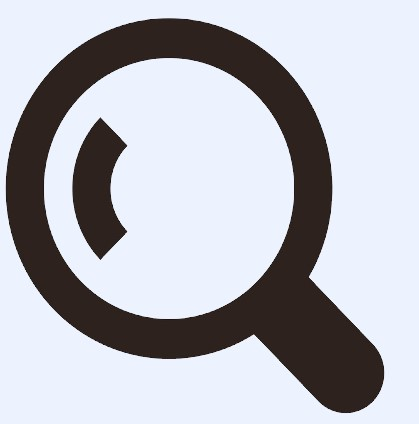
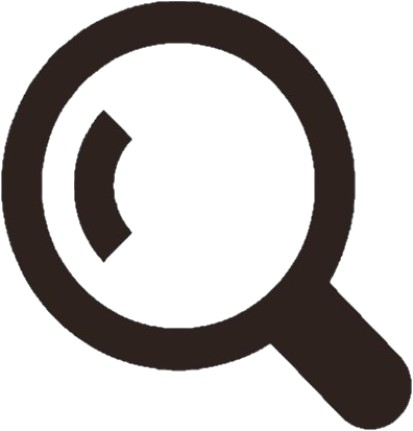
Top Left Page Created Like Facebook but To be Edited

diff --git a/Facebook.htm b/Facebook.htm
@@ -1,5 +1,6 @@
 <!DOCTYPE html>
 <html lang="en">
+
 <head>
     <meta charset="UTF-8">
     <meta http-equiv="X-UA-Compatible" content="IE=edge">
@@ -8,23 +9,38 @@
     <link rel="stylesheet" href="Facebook.css">
     <script src="Facebook.js"></script>
 </head>
+
 <body>
     <div id="Page">
         <div id="TopPage" class="PageDivision">
             <section class="LeftTopPage">
-                <div class="FacebookLogo"></div>
-                <div class="SearchFirstPart"></div> <!-- Search Logo -->
-                <div class="SearchLastPart"></div> <!-- Search text -->
+                <section class="AlignLeftTopPage">
+                    <section class="FacebookLogo">
+                        <img src="Facebook-logo.png" alt="" class="FacebookLogoPicture">
+                    </section>
+                    <section class="SearchBox">
+                        <section class="SearchFirstPart">
+                            <img src="Search-icon.png" alt="" id="SearchIcon" class="SearchBoxItem">
+                        </section> <!-- Search Logo -->
+                        <section class="SearchLastPart">
+                            <input type = "text" id="SearchInputText" placeholder="Search Friends" class="SearchBoxItem">
+                        </section> <!-- Search text -->
+                    </section>
+                </section>
             </section>
-            <section class="MidTopPage"></section>
-            <section class="RightTopPage"></section>
+            <section class="MidTopPage">
+                <section class="AlignMidTopPage"></section>
+            </section>
+            <section class="RightTopPage">
+                <section class="AlignRightTopPage"></section>
+            </section>
         </div>
         <div id="LeftPage" class="PageDivision">
             <div class="FixedPageStart">
                 <section class="MainList"></section>
                 <section class="LineBelowMainList">
                     <section class="LineBelowMainListAlign">
-                        <hr class = "HorizontalLineLeftPage">
+                        <hr class="HorizontalLineLeftPage">
                     </section>
                 </section>
                 <section class="ShortcutList"></section>
@@ -32,12 +48,12 @@
             </div>
         </div>
         <div id="MainPage" class="PageDivision">
-            <div class="ContentPageStart"></div>
-        </div>  
+            <div class="ContentPageStart">News Feed</div>
+        </div>
         <div id="RightPage" class="PageDivision">
             <div class="FixedPageStart">
                 <section class="RightPageTopic">
-                    <div class="contacts"></div>
+                    <div class="contacts">Contacts</div>
                     <div class="ReelsIcon"></div>
                     <div class="SearchIcon"></div>
                     <div class="ThreeDots"></div>
@@ -47,4 +63,5 @@
         </div>
     </div>
 </body>
+
 </html>

diff --git a/Facebook.css b/Facebook.css
@@ -54,6 +54,75 @@ body {
   /*height is set 0 because height of main page depends upon content of it*/
 }
 
+/*Aligning Elements*/
+.AlignLeftTopPage {
+  height: 98%;
+  width: 93%;
+  margin-left: 2%;
+  margin-top: 0.3%;
+  display: flex;
+  align-items: center;
+  justify-content: flex-start;
+}
+.AlignMidTopPage {
+  /*No margin*/
+  display: flex;
+  justify-content: center;
+}
+.AlignRightTopPage {
+  display: flex;
+  justify-content: flex-end;
+  align-items: center;
+}
+
+/*Top Page Configuration*/
+.FacebookLogo {
+  width: 15%;
+  height: 95%;
+  padding: 5% 0% 0% 5%;
+}
+.FacebookLogoPicture {
+  width: 80%;
+  height: 75%;
+}
+.SearchBox {
+  width: 85%;
+  height: 95%;
+  display: flex;
+  align-items: center;
+  justify-content: flex-start;
+}
+.SearchFirstPart {
+  background-color: #ecf3ff;
+  border-radius: 50% 0% 0% 50%;
+  height: 80%;
+  width: 10%;
+  margin: 0 0 0 0;
+}
+.SearchLastPart {
+  height: 80%;
+  padding: 0px 0px 0px 0px;
+  margin: 0px 0px 0px 0px;
+}
+.SearchBoxItem {
+  height: 80%;
+}
+#SearchIcon {
+  margin: 42% 0 0 30%;
+  width: 52%;
+  height: 40%;
+}
+#SearchInputText {
+  background-color: #ecf3ff;
+  border: 0px;
+  padding: 0px 0px 0px 2%;
+  margin: 0 0 0 0;
+  border-radius: 0% 20% 20% 0%;
+  font-size: 12pt;
+  height: 100%;
+}
+
+
 /*LeftPageStart, RightPageStart and MainPageStart*/
 .FixedPageStart {
   margin-top: 0.5rem;
@@ -74,7 +143,7 @@ body {
   flex-direction: column;
 }
 .MainList {
-  height: 57%;
+  height: 65%;
   width: 100%;
   background-color: green;
 }
@@ -90,7 +159,7 @@ body {
   margin: 0 5.2% 0 3.8%;
 }
 .ShortcutList {
-  height: 35%;
+  height: 27%;
   width: 100%;
   background-color: greenyellow;
 }
@@ -148,22 +217,19 @@ body {
   .LeftTopPage {
     width: 25%;
     background-color: aqua;
-    justify-items: flex-start;
   }
   .MidTopPage{
-    justify-items: center;
     width: 50%;
     background-color: beige;
   }
   .RightTopPage {
     width: 25%;
     background-color: aquamarine;
-    justify-content: flex-end;
   }
 }
 @media only screen and (max-width: 701px){
   .MidTopPage {
-    visibility: none;
+    display: none;
   }
   .LeftTopPage {
     width: 50%;
@@ -172,5 +238,8 @@ body {
   .RightTopPage {
     width: 50%;
     background-color: aquamarine;
+  }
+  .SearchLastPart {
+    display: none;
   }
 }
